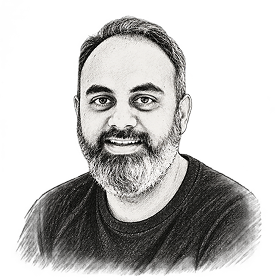
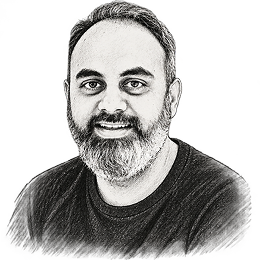
Swap the hover portrait back to the previous sketch version
Also adds a ?v=2 cache-bust to the <img src> since this file's path
never changes, so browsers/CDN would otherwise keep serving the old
bytes under the same URL.

diff --git a/index.html b/index.html
@@ -47,7 +47,7 @@
               <h1 class="name" data-name></h1>
             </div>
             <p class="role" data-role></p>
-            <img class="name-portrait" src="assets/img/mahesh-sketch.png" alt="" aria-hidden="true" />
+            <img class="name-portrait" src="assets/img/mahesh-sketch.png?v=2" alt="" aria-hidden="true" />
           </div>
         </div>
 
